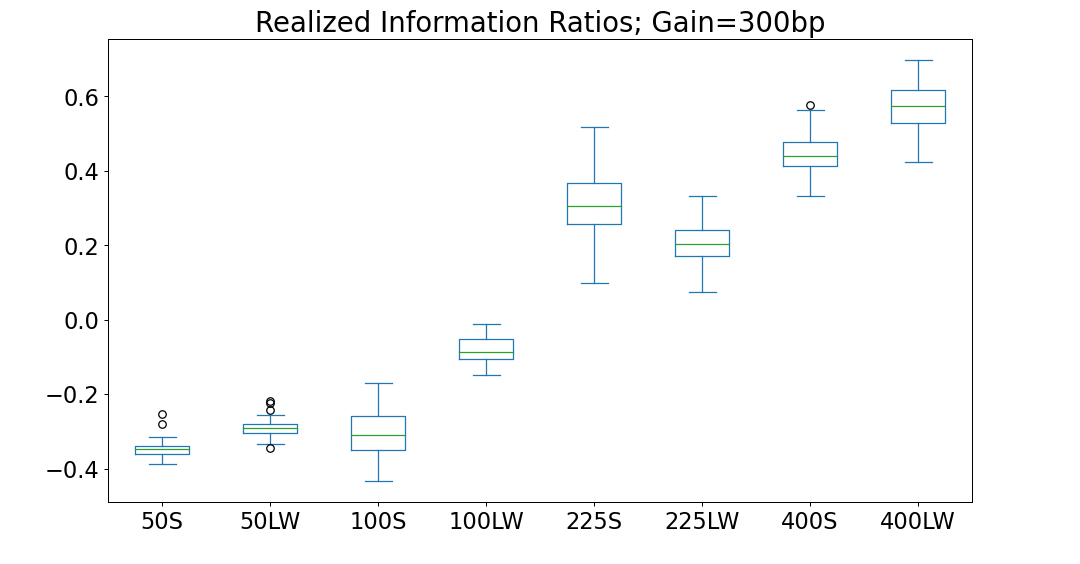
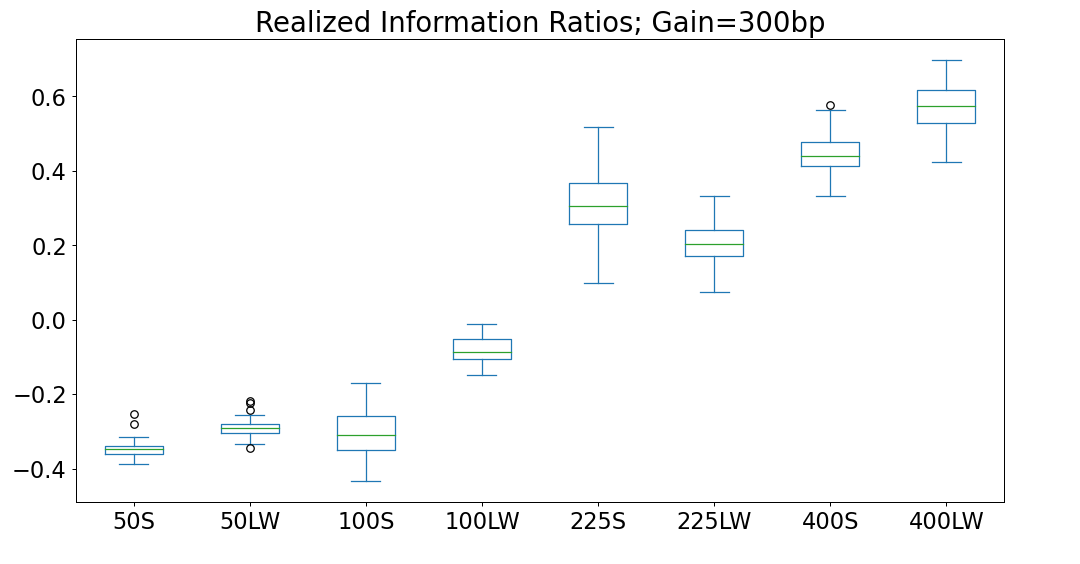
changes

diff --git a/_posts/2023-12-30-honey-covariance.md b/_posts/2023-12-30-honey-covariance.md
@@ -14,7 +14,7 @@ Here is the [<i class="fa fa-github" aria-hidden="true"></i> Github repo & code]
 
 _Ledoit, O., & Wolf, M. (2004). Honey, I shrunk the sample covariance matrix. The Journal of Portfolio Management, 30(4), 110–119. [https://doi.org/10.3905/jpm.2004.110](https://doi.org/10.3905/jpm.2004.110)_
 <center>
-<img src="{{ site.imageurl }}/LedoitWolf/linkedin2.png" style="width:100%;"/>
+<img src="{{ site.imageurl }}/LedoitWolf/linkedin2.png" style="width:97%;"/>
 </center>
 
 
